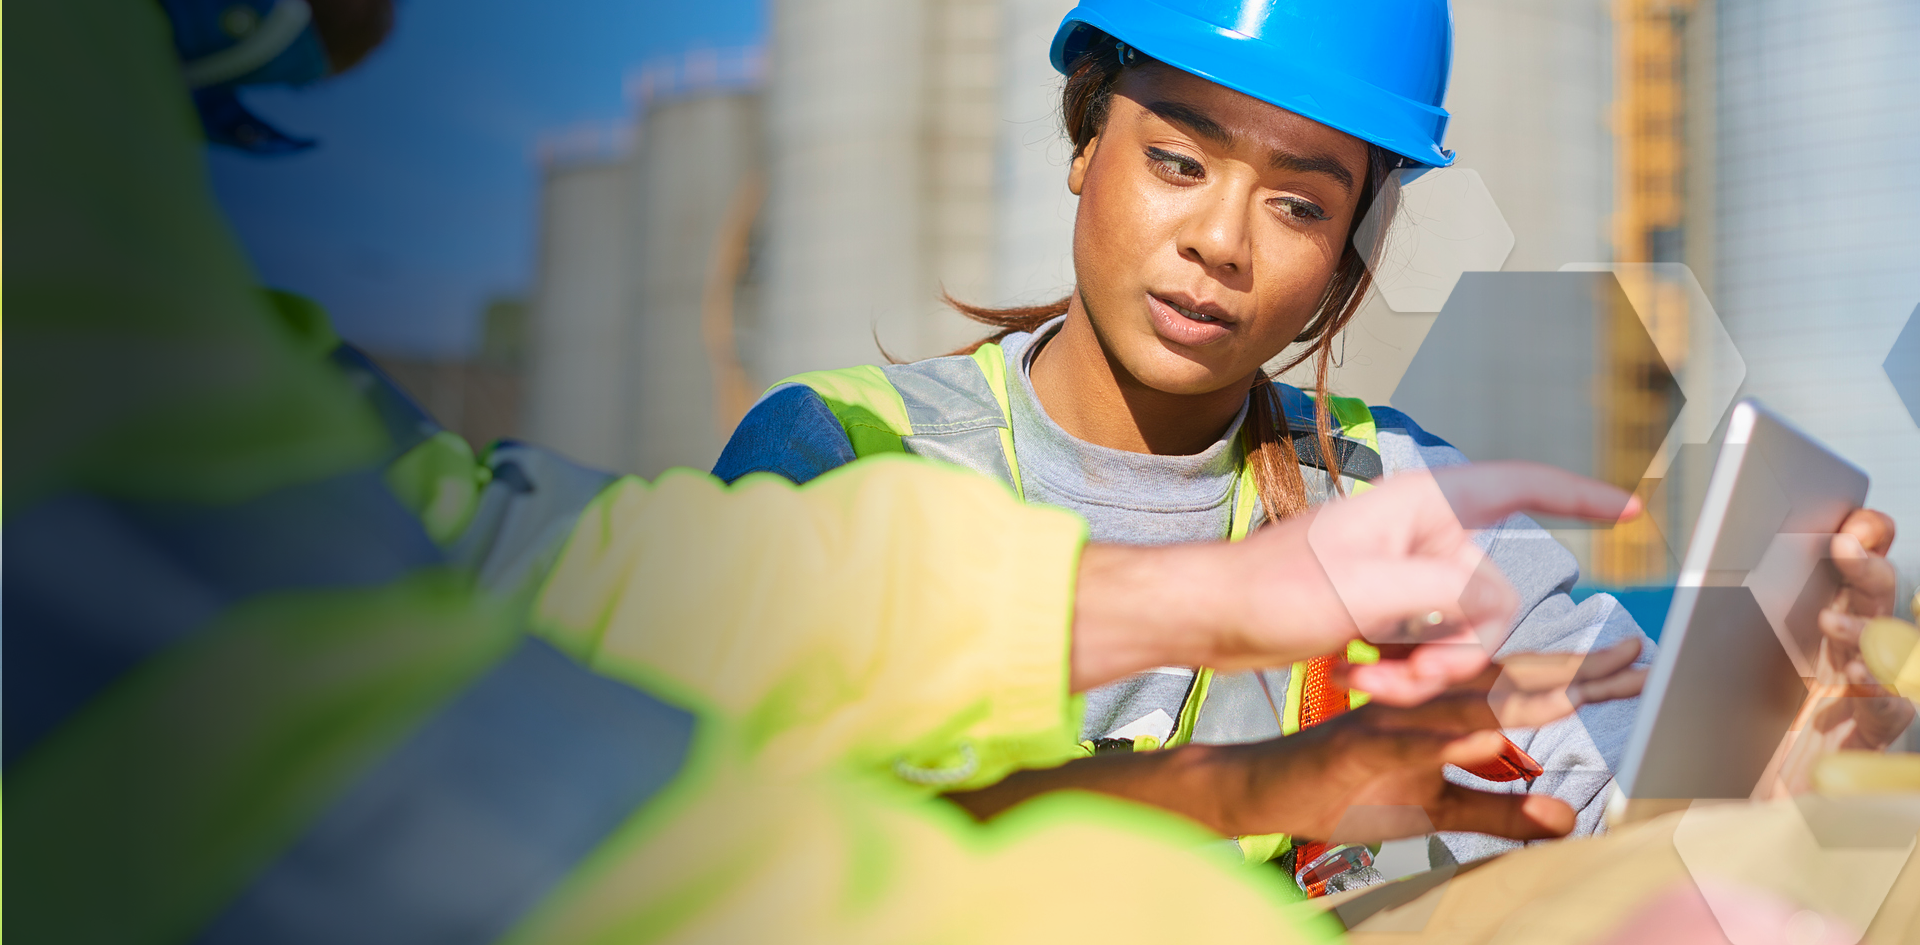
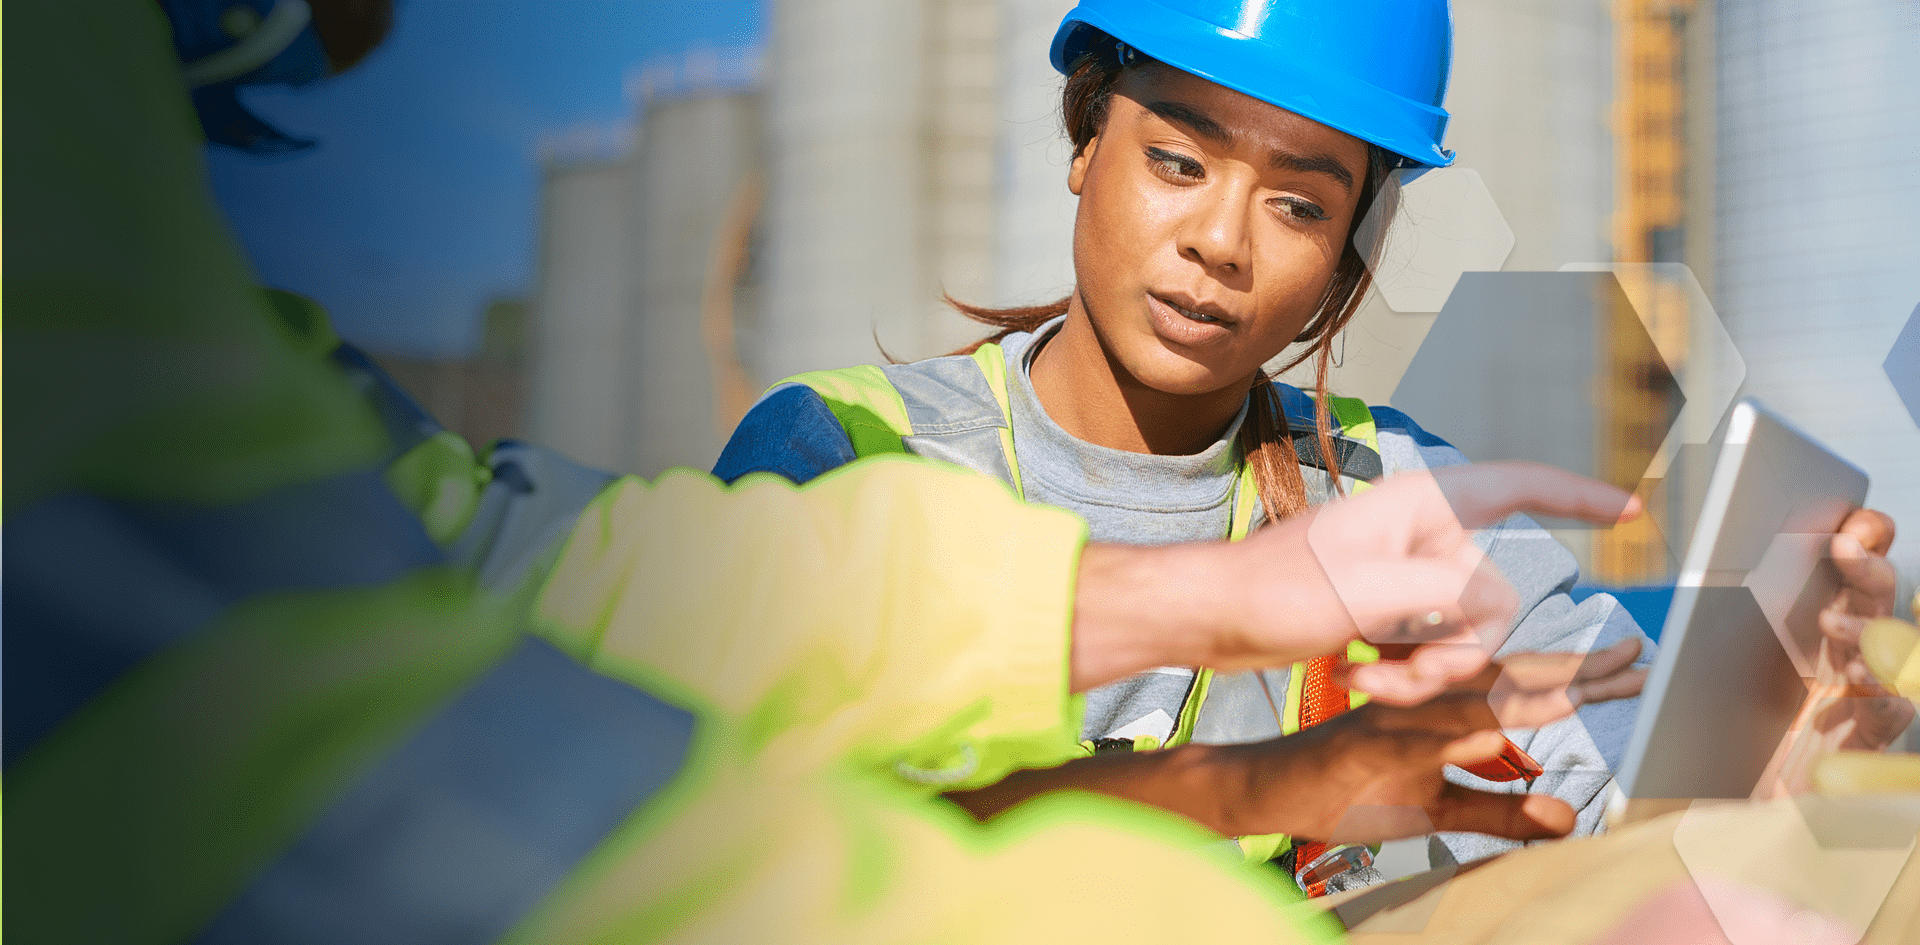
Added our clientele and compressed images

diff --git a/src/components/app/app.js b/src/components/app/app.js
@@ -4,6 +4,7 @@ import Carousel from '../carousel/carousel';
 import Welcome from '../welcome/welcome';
 import WhatWeDo from '../what-we-do/what-we-do';
 import OurApproach from '../our-approach/our-approach';
+import OurClientele from '../our-clientele/our-clientele';
 export default class App extends React.Component {
     render() {
         return (
@@ -13,6 +14,7 @@ export default class App extends React.Component {
                 <Welcome />
                 <WhatWeDo />
                 <OurApproach />
+                <OurClientele />
             </div>
         );
     }

diff --git a/src/components/our-clientele/our-clientele.js b/src/components/our-clientele/our-clientele.js
@@ -1,0 +1,7 @@
+import React from 'react';
+
+export default class OurClientele extends React.Component {
+    render() {
+        return <div>Yo</div>
+    }
+}
